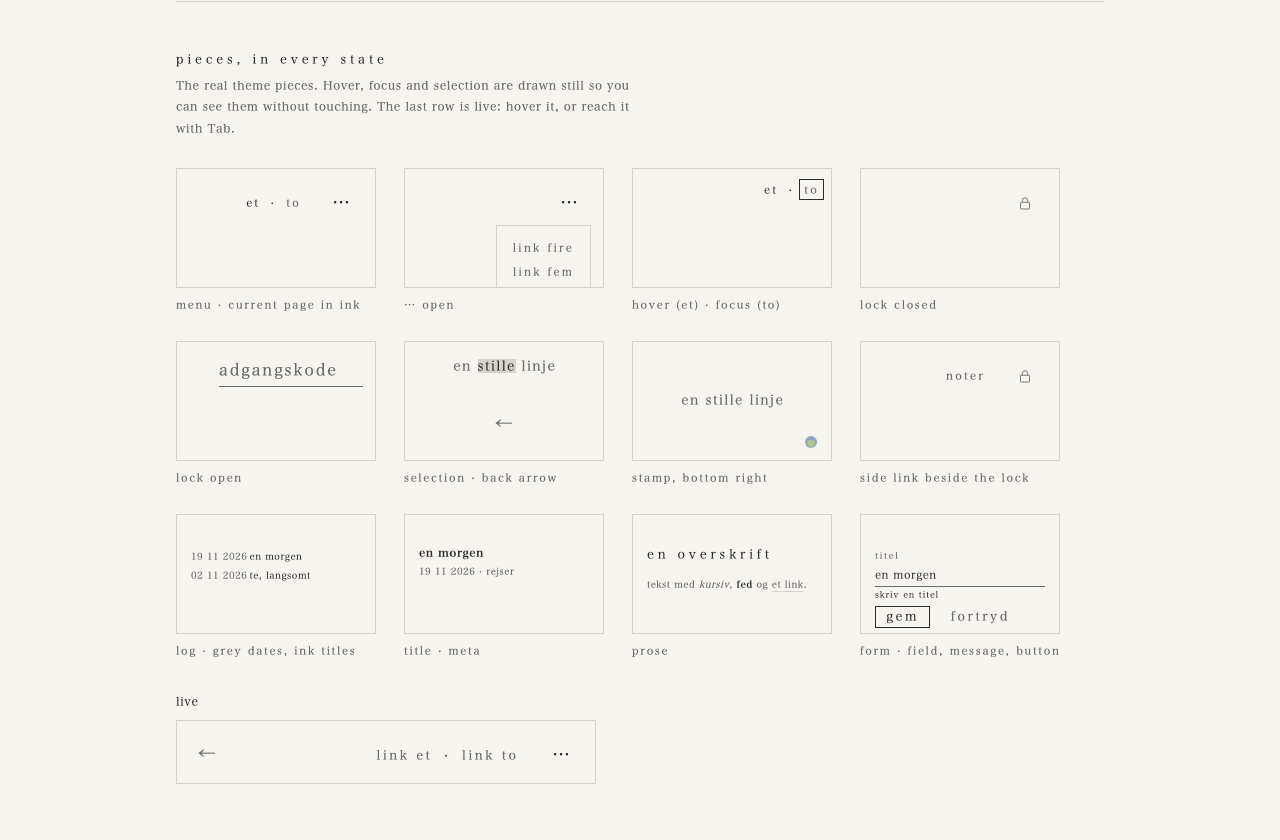
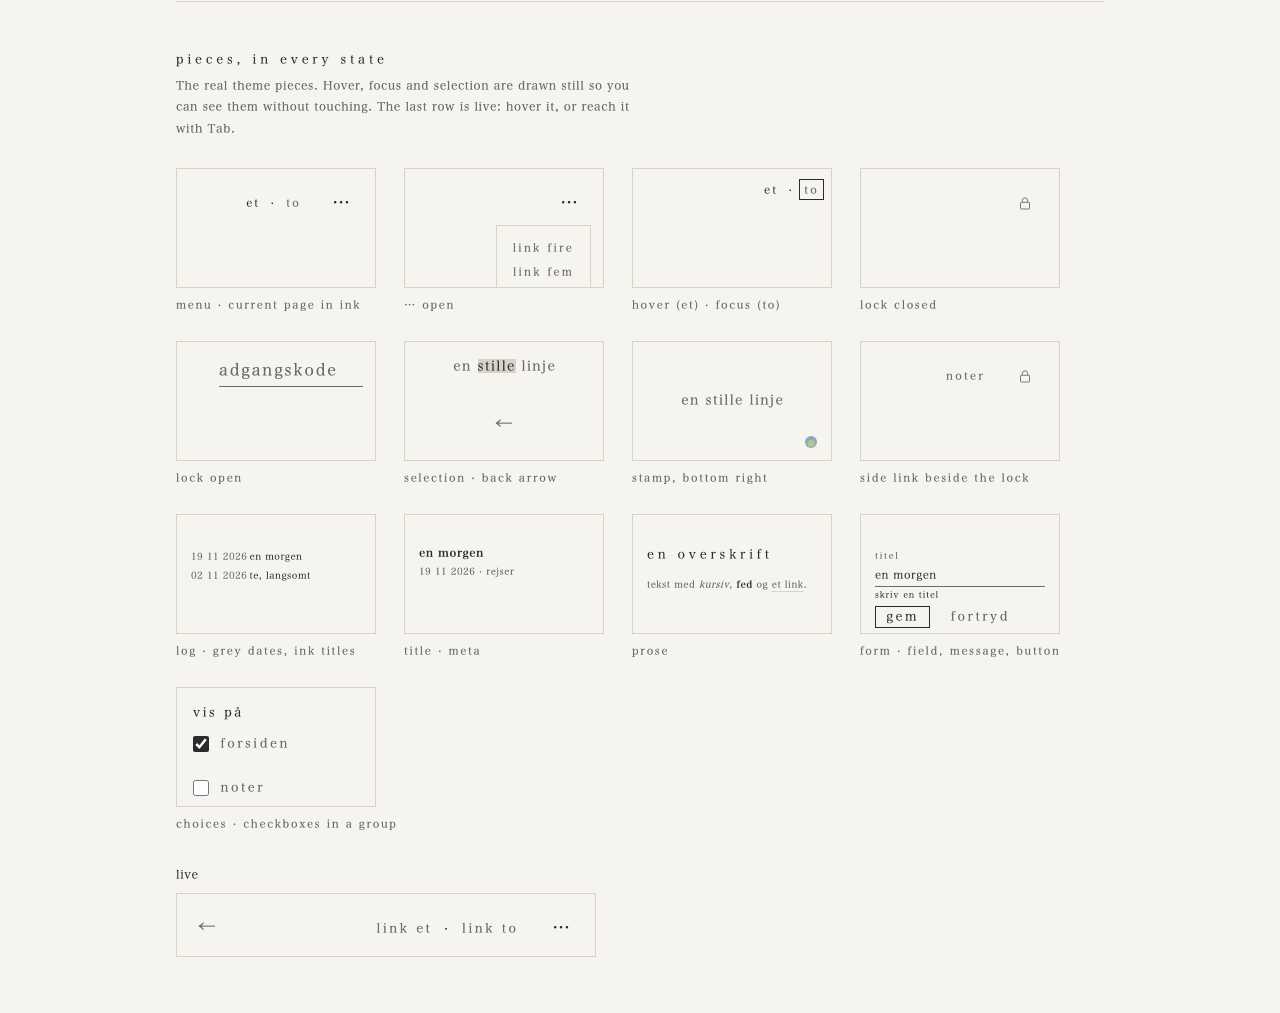
feat: the choices piece (1.4.0)

diff --git a/site/theme.css b/site/theme.css
@@ -1,4 +1,4 @@
-/* hyvnl-theme 1.3.0
+/* hyvnl-theme 1.4.0
    The shared look for my sites: ink on paper, lots of empty space.
    Don't edit this copy. Change it in the hyvnl-theme repo, then copy it in again.
    Guide: GUIDE.md in the hyvnl-theme repo. */
@@ -311,6 +311,27 @@ a, .lock-icon { transition: color var(--ink-fade) ease; }
 }
 .button:hover { background: var(--ink); color: var(--paper); }
 .button:focus-visible { outline: 1px solid var(--ink); outline-offset: 4px; }
+
+/* ---------- choices: checkboxes in a group, no script ----------
+   A <fieldset class="choices"> with a <legend>, one <label class="choice"> per box. Can sit inside a .form. */
+.choices { margin: 2em 0 0; padding: 0; border: 0; min-width: 0; }
+.choices legend { padding: 0; font-size: var(--size-menu); letter-spacing: 0.2em; color: var(--ink); }
+.choices legend + .field-label { margin-top: 1.2em; }
+.choices .choices { margin-top: 2em; }
+.choice {
+  display: flex;
+  align-items: center;
+  gap: 0.9em;
+  min-height: var(--tap);
+  font-size: var(--size-menu);
+  letter-spacing: 0.2em;
+  color: var(--grey);
+  cursor: pointer;
+}
+.choice input { flex: none; width: 16px; height: 16px; margin: 0; accent-color: var(--ink); cursor: pointer; }
+.choice input:focus-visible { outline: 1px solid var(--ink); outline-offset: 4px; }
+.choices + .actions { margin-top: 1.2em; }
+.form + .form { margin-top: 3.6em; }
 
 /* ---------- lock: the icon turns into a password field, no script ---------- */
 .lock-field {

diff --git a/specimen/index.html b/specimen/index.html
@@ -88,6 +88,7 @@
       <div><div class="frame"><main class="center reading"><p class="title">en morgen</p><p class="meta">19 11 2026 · <a href="#">rejser</a></p></main></div><p class="cap" lang="en">title · meta</p></div>
       <div><div class="frame"><main class="center reading"><div class="prose"><h2>en overskrift</h2><p>tekst med <em>kursiv</em>, <strong>fed</strong> og <a href="#">et link</a>.</p></div></main></div><p class="cap" lang="en">prose</p></div>
       <div><div class="frame"><main class="center reading"><div class="form"><label class="field-label">titel</label><input class="field" type="text" value="en morgen"><p class="notice">skriv en titel</p><div class="actions"><button class="button" type="button">gem</button><a href="#">fortryd</a></div></div></main></div><p class="cap" lang="en">form · field, message, button</p></div>
+      <div><div class="frame"><main class="center"><div class="form"><fieldset class="choices"><legend>vis på</legend><label class="choice"><input type="checkbox" checked>forsiden</label><label class="choice"><input type="checkbox">noter</label></fieldset></div></main></div><p class="cap" lang="en">choices · checkboxes in a group</p></div>
     </div>
     <p class="cap"><b>live</b></p>
     <div class="live" lang="da">

diff --git a/site/form.html b/site/form.html
@@ -44,6 +44,10 @@
     <label class="field-label" for="emner">emner</label>
     <input class="field" id="emner" name="emner" type="text" value="rejser te">
     <p class="hint">små bogstaver, adskilt med mellemrum</p>
+    <fieldset class="choices"><legend>vis på</legend>
+      <label class="choice"><input type="checkbox" name="vis" value="forside" checked>forsiden</label>
+      <label class="choice"><input type="checkbox" name="vis" value="noter">noter</label>
+    </fieldset>
     <div class="actions"><button class="button" type="submit">gem</button><a href="/log.html">fortryd</a></div>
   </form>
   <a class="back" href="/" aria-label="Tilbage til forsiden">←</a>

diff --git a/GUIDE.md b/GUIDE.md
@@ -241,6 +241,20 @@ Labels above fields, one quiet button and a `fortryd` link (`.form`, `.field-lab
 - Do: a label for every field.
 - Don't: placeholders instead of labels.
 
+### Choices
+
+Checkboxes in a group, with a small ink heading (`.choices`, `.choice`). Each box sits inside its own label, so the whole line takes the tap. It can sit inside a Form, before its `.actions`. Two forms in a row get room between them. Copy the HTML from `site/form.html`.
+
+```html
+<fieldset class="choices"><legend>vis på</legend>
+  <label class="choice"><input type="checkbox" name="vis" value="forside" checked>forsiden</label>
+  <label class="choice"><input type="checkbox" name="vis" value="noter">noter</label>
+</fieldset>
+```
+
+- Do: short labels, lowercase; the legend says what the boxes are about.
+- Don't: use it for one single yes/no (write one choice without a fieldset instead).
+
 ### Stamp
 
 A small faded blue dot with a see-through lime dot resting low inside it, in the bottom-right corner, like a name stamp on a print. It is the theme's only colour. Put it as the last thing inside `<main class="center">`. On a long page it sits at the very end.
@@ -512,6 +526,7 @@ Considered and left out: text set top-to-bottom as a margin accent, and a name s
 
 ## 12. Changes
 
+- **1.4.0** (2026-11-19): new: the choices piece (checkboxes in a group, `.choices`, `.choice`), shown in `site/form.html` and the specimen, and room between two forms in a row (`.form + .form`). Pages made for 1.3 look the same.
 - **1.3.0** (2026-11-19): new: side link, column, title, meta, log, prose and form pieces, the token --column, and three starter pages (log.html, post.html, form.html). .lock now lays itself out, so it can sit inside a <div class="menu">. Pages made for 1.2 look the same.
 - **1.2.1** (2026-11-18): fix: a PNG backup for the tab icon, `site/favicon-32.png`, for browsers that can't show the SVG (some Safari versions). Linked before the SVG on every starter page and the specimen; `/favicon.ico` should now go to the PNG, not the SVG (see Site icon). Nothing looks different. To get it in a site, copy the file and add the PNG `<link>` line above the SVG one.
 - **1.2.0** (2026-11-18): new: the site icon. The stamp as `site/favicon.svg` and `site/apple-touch-icon.png`, linked from every starter page and the specimen (see Site icon). Pages look the same; to get the icon in a site, copy the two files and add the two `<link>` lines.
